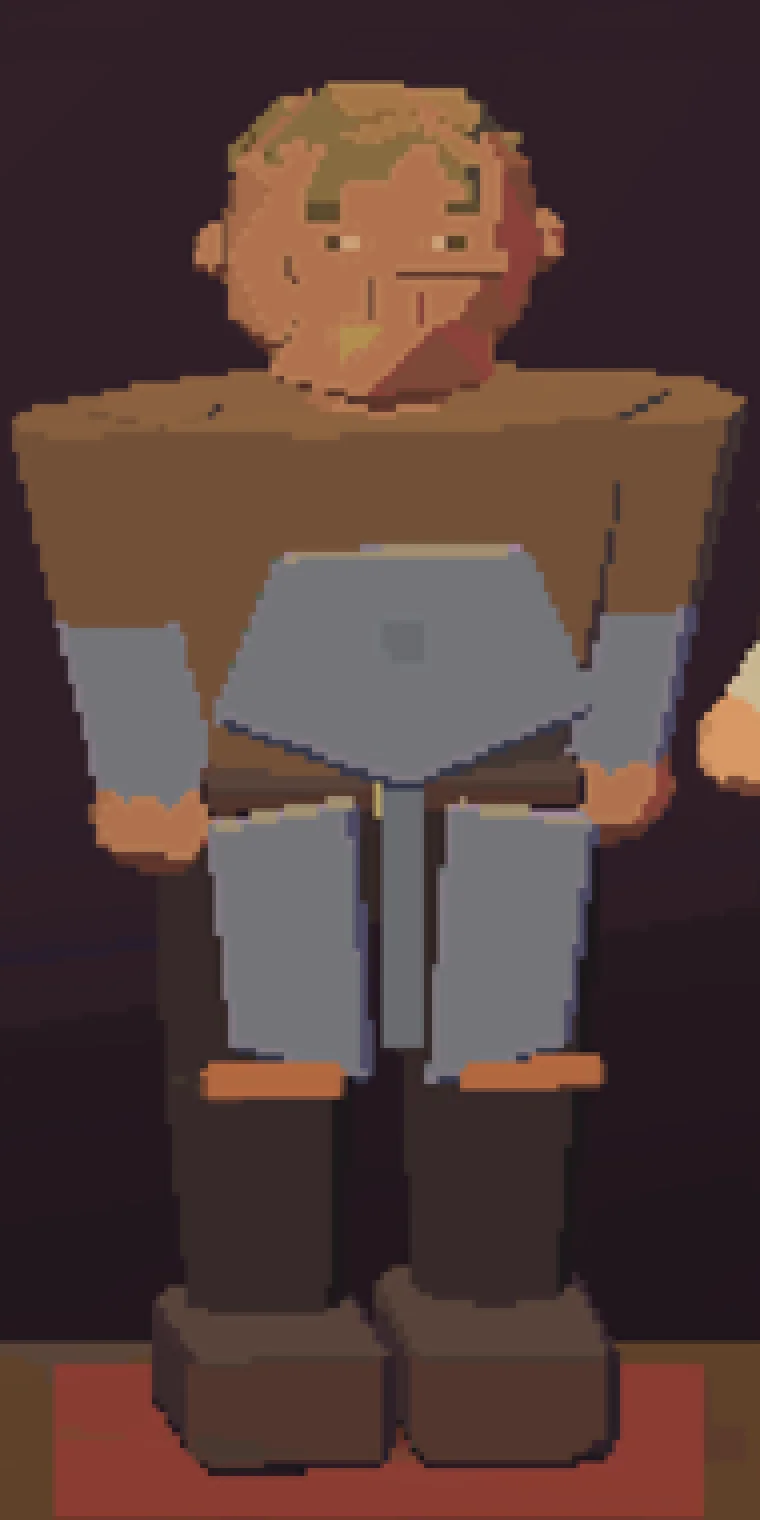
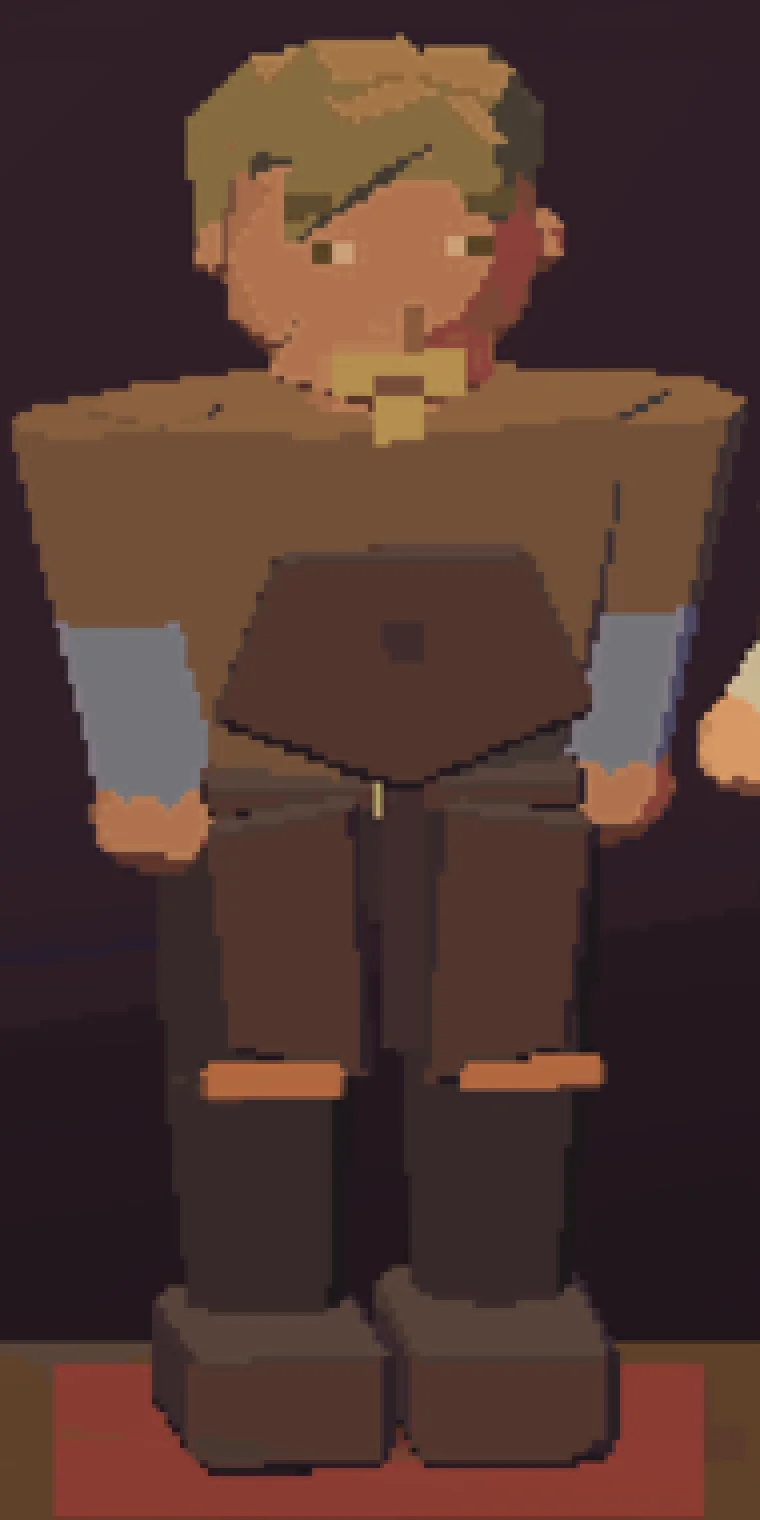
docs: update review frames for the hair/face/apron fixes
Replace the round-one before/after frames with captures from the
corrected build (hair/headwear scaled with the head, face overlay
anchored to match, apron in a darker contrasting color), and add a
clean unobstructed face close-up (raider) alongside the original
granary-keeper conversation shot. See the README for what each round
fixed.

Changed region(s): [[0.2724, 0.3401, 0.7868, 0.7112], [0.2421, 0.0, 0.7263, 0.3092]]

diff --git a/docs/reviews/npc-readability-2026-09-24/README.md b/docs/reviews/npc-readability-2026-09-24/README.md
@@ -1,12 +1,22 @@
 # NPC figure readability pass
 
-Before/after frames for the NPC readability work on `tools/blender/build_npc_archetype_library.py`. NPCs are static baked meshes (no bone skin), so they cannot reuse the hero's runtime head/hand gameplay scale (`DrawHeroSkin`, `asset_loading.inc`: 1.32x head/hair, 0.90x hand). The generator now bakes an equivalent proportion boost directly into the geometry, plus a brow/nose face mass, softer hands and boots, a relaxed idle arm hang, and a real apron shape for merchant/laborer/healer in place of the old flat boxes.
+Before/after frames for the NPC readability work on `tools/blender/build_npc_archetype_library.py` and, after the first review round, `src/client/local3d/actor_rendering.inc`. NPCs are static baked meshes (no bone skin), so they cannot reuse the hero's runtime head/hand gameplay scale (`DrawHeroSkin`, `asset_loading.inc`: 1.32x head/hair, 0.90x hand). The generator bakes an equivalent proportion boost directly into the geometry, plus softer hands and boots, a relaxed idle arm hang, and a real apron shape for merchant/laborer/healer in place of the old flat boxes.
 
-Every frame pair uses the same camera, seed, and game build; only the NPC archetype exports differ (checked out from the pre-edit commit for "before", from this branch for "after").
+Every frame pair uses the same camera, seed, and game build; only the NPC archetype exports (and, for the second round, the small runtime change below) differ between before and after.
+
+## Second review round: hair, face overlay, apron contrast
+
+The first round grew the archetype mesh's head ~1.3x but missed three things a reviewer caught looking at the game capture, not a Blender render:
+
+1. **Hair/hats/helmets/hoods didn't scale with the head.** They are drawn separately from the archetype mesh, in `DrawNpcArchetypePose3D` (`actor_rendering.inc`), sized off the *old* head. The bigger head stuck out from underneath them, so a character with hair looked bald with a small patch on top. Fixed by scaling `identity_head`/`molded_hair` (which both hair and headwear use) by the same growth factor about the same head point (`NPC_ARCHETYPE_HEAD_GROWTH`, kept in sync with Python's `HEAD_GROWTH`).
+2. **The procedural face overlay was scattered.** `DrawWorldFace` (also in `actor_rendering.inc`) paints the actual eyes/brow/nose/mouth/scars on top of the head mesh (`CcNpcPaintFaceFeatures` in `cc_npc_appearance.c`) once the projected face is big enough on screen — this is a separate, always-on system, not something Blender geometry controls. It was also still sized for the old head, so its painted features landed in the wrong places once the head grew. Fixed by scaling its half-width/half-height/half-depth and vertical offset by the same factor. Once that was in place, an A/B render confirmed the mesh brow bar and nose wedge added in round one were now pure redundant clutter next to the overlay's own painted brow/eyes/nose — removed them.
+3. **The apron still read as a flat grey block.** Round one fixed its shape (a boxy bib -> a tapered panel) but not its color: it used the "underlayer" palette slot, which runs close in rendered value to the "outer" tunic for many NPCs, so the apron visually fused with the shirt underneath. Switched it to "leather" (a separate, reliably darker color pool at runtime) plus a slight extra `cc_value_offset` darkening.
+
+The before/after pairs below are from this second, corrected build. The "before" state is `origin/main` (this branch's base); "after" is this branch after both rounds.
 
 ## Close-up review (`--capture-npc-review`)
 
-The close-up tool is useful for judging body proportions and silhouette, but it is not the final word on face readability: the game also draws a separate, always-on procedural face overlay (`DrawWorldFace`) on top of the head mesh once the projected face gets big enough on screen, which is exactly what a close-up produces. At true gameplay distance that overlay self-disables (`projected_face_height <= 3px` skips it), and the baked mesh plus vertex-paint value contrast is what actually reads. The town/interior frames below are the real acceptance test.
+The close-up tool is useful for judging body proportions, silhouette, and (now) the face overlay's fit, but it is not the final word on face readability: the same `DrawWorldFace` overlay self-disables at true gameplay distance (`projected_face_height <= 3px` skips it entirely), so the baked mesh plus vertex-paint value contrast is what actually reads there. The town/interior frames are the check for that.
 
 - [Front — before](before-npc-front.webp) / [after](after-npc-front.webp)
 - [Side — before](before-npc-side.webp) / [after](after-npc-side.webp)
@@ -20,19 +30,18 @@ The close-up tool is useful for judging body proportions and silhouette, but it 
 
 ## Close-up crops
 
-Two tight crops that make the change easy to see without pixel-peeping the full frame:
-
-- [Laborer torso — before](before-laborer-closeup.webp) / [after](after-laborer-closeup.webp): the flat grey apron bib and two flat skirt boxes become a shaped, tapered bib and split skirt with a stitched center fold; the relaxed arm hang is visible too.
-- [Granary keeper face, interior scene — before](before-face-closeup.webp) / [after](after-face-closeup.webp): the bigger head reads as an actual face at conversation distance instead of a small blank dome, and the hand reads as a rounded fist instead of a thin blob.
+- [Laborer torso — before](before-laborer-closeup.webp) / [after](after-laborer-closeup.webp): the apron is now a shaped, dark-leather bib and split skirt with a visible fold, clearly separate from the lighter tunic, instead of a flat grey-blue block fused to it. The relaxed arm hang is visible too.
+- [Raider face — before](before-raider-face-closeup.webp) / [after](after-raider-face-closeup.webp): a clean, unobstructed close-up of the face-overlay fix — properly sized, well-spaced eyes, brow, and mouth on the bigger head, instead of tiny features lost on a small one.
+- [Granary keeper, interior scene — before](before-face-closeup.webp) / [after](after-face-closeup.webp): the same conversation shot the second review round was called out on. Hair now fully covers the bigger head instead of leaving a bald patch showing underneath it.
 
 ## What changed, per archetype
 
-- **All nine archetypes**: head grown ~1.3x (`HEAD_GROWTH`) to approximate the hero's 1.32x runtime head boost; hands shrunk ~0.9x (`HAND_SHRINK`) to match the hero's hand scale and rounded out (more subdivisions, less elongated); boots given a bigger, multi-segment bevel and lower/longer proportions instead of a sharp brick; a brow bar and nose wedge added to the head (no new eye/mouth geometry — the existing per-face-normal value shading already turns the brow's underside dark and its top bright); the default idle arm pose (used directly by wayfarer/guard, and as the base every other posture offsets from) now tucks the elbow near the ribs and the hand near the hip instead of bowing out past the shoulder line.
-- **Guard, laborer, raider**: added a dark jaw/beard mass for silhouette variety.
-- **Merchant, laborer, healer**: the flat box apron bib and two flat box skirt panels are replaced with a shaped bib panel and two tapered, curved split-skirt panels, plus a stitched center-fold accent line.
+- **All nine archetypes**: head grown ~1.3x (`HEAD_GROWTH` / `NPC_ARCHETYPE_HEAD_GROWTH`, kept in sync between the Python generator and the C renderer) to approximate the hero's 1.32x runtime head boost, with hair/headwear/the face overlay scaled to match; hands shrunk ~0.9x (`HAND_SHRINK`) to match the hero's hand scale and rounded out (more subdivisions, less elongated); boots given a bigger, multi-segment bevel and lower/longer proportions instead of a sharp brick; the default idle arm pose (used directly by wayfarer/guard, and as the base every other posture offsets from) now tucks the elbow near the ribs and the hand near the hip instead of bowing out past the shoulder line. No brow/eye/nose mesh geometry: the runtime's procedural face overlay already draws a full face, correctly scaled now, and mesh geometry there only doubled up as clutter.
+- **Guard, laborer, raider**: a dark jaw/beard mesh mass for silhouette variety (independent of, and can coexist with, the overlay's own per-seed beard blocks).
+- **Merchant, laborer, healer**: the flat box apron bib and two flat box skirt panels are replaced with a shaped bib panel and two tapered, curved split-skirt panels in a darker "leather" color, plus a stitched center-fold accent line.
 - **Everyone else** (wayfarer, traveller, refugee, scout): proportion and arm-pose changes only; their mantle/pack/hood equipment already reads as a distinct silhouette.
 
-No changes to shaders, palettes, or C rendering code — geometry and vertex paint only, in `tools/blender/build_npc_archetype_library.py`.
+No shader or palette changes. `actor_rendering.inc` changes only reposition/rescale existing draws (hair/headwear transform, face overlay anchor) to match the bigger baked head; they do not touch shaders or the palette system.
 
 ## Contract note
 
@@ -40,7 +49,7 @@ No changes to shaders, palettes, or C rendering code — geometry and vertex pai
 
 ## Validation
 
-- `validate_npc_archetype_library.py`: 99 pose assets, 181280 triangles total, all under the 6500-triangle-per-archetype budget.
+- `validate_npc_archetype_library.py`: 99 pose assets, 159896 triangles total (down from round one's 181280 after removing the redundant brow/nose mesh), all under the 6500-triangle-per-archetype budget.
 - `validate_npc_dynamic_modules.py`: unaffected, still 34 modules / 5056 triangles.
 - `make blender-exports-check`: 0 failures.
-- `cmake --preset play && cmake --build --preset play`, then `ctest` (with `ulimit -s 65520`): 237/237 tests passed.
+- Rebased on `origin/main`. `cmake --preset play && cmake --build --preset play`, then `ctest` (with `ulimit -s 65520`): 240/243 passed. The 3 failures (`crisis_contested_succession`, `long_history_recovery`, `scrivendays_calendar_and_evidence`) are pre-existing on `origin/main` and unrelated to this change; no new failures.
